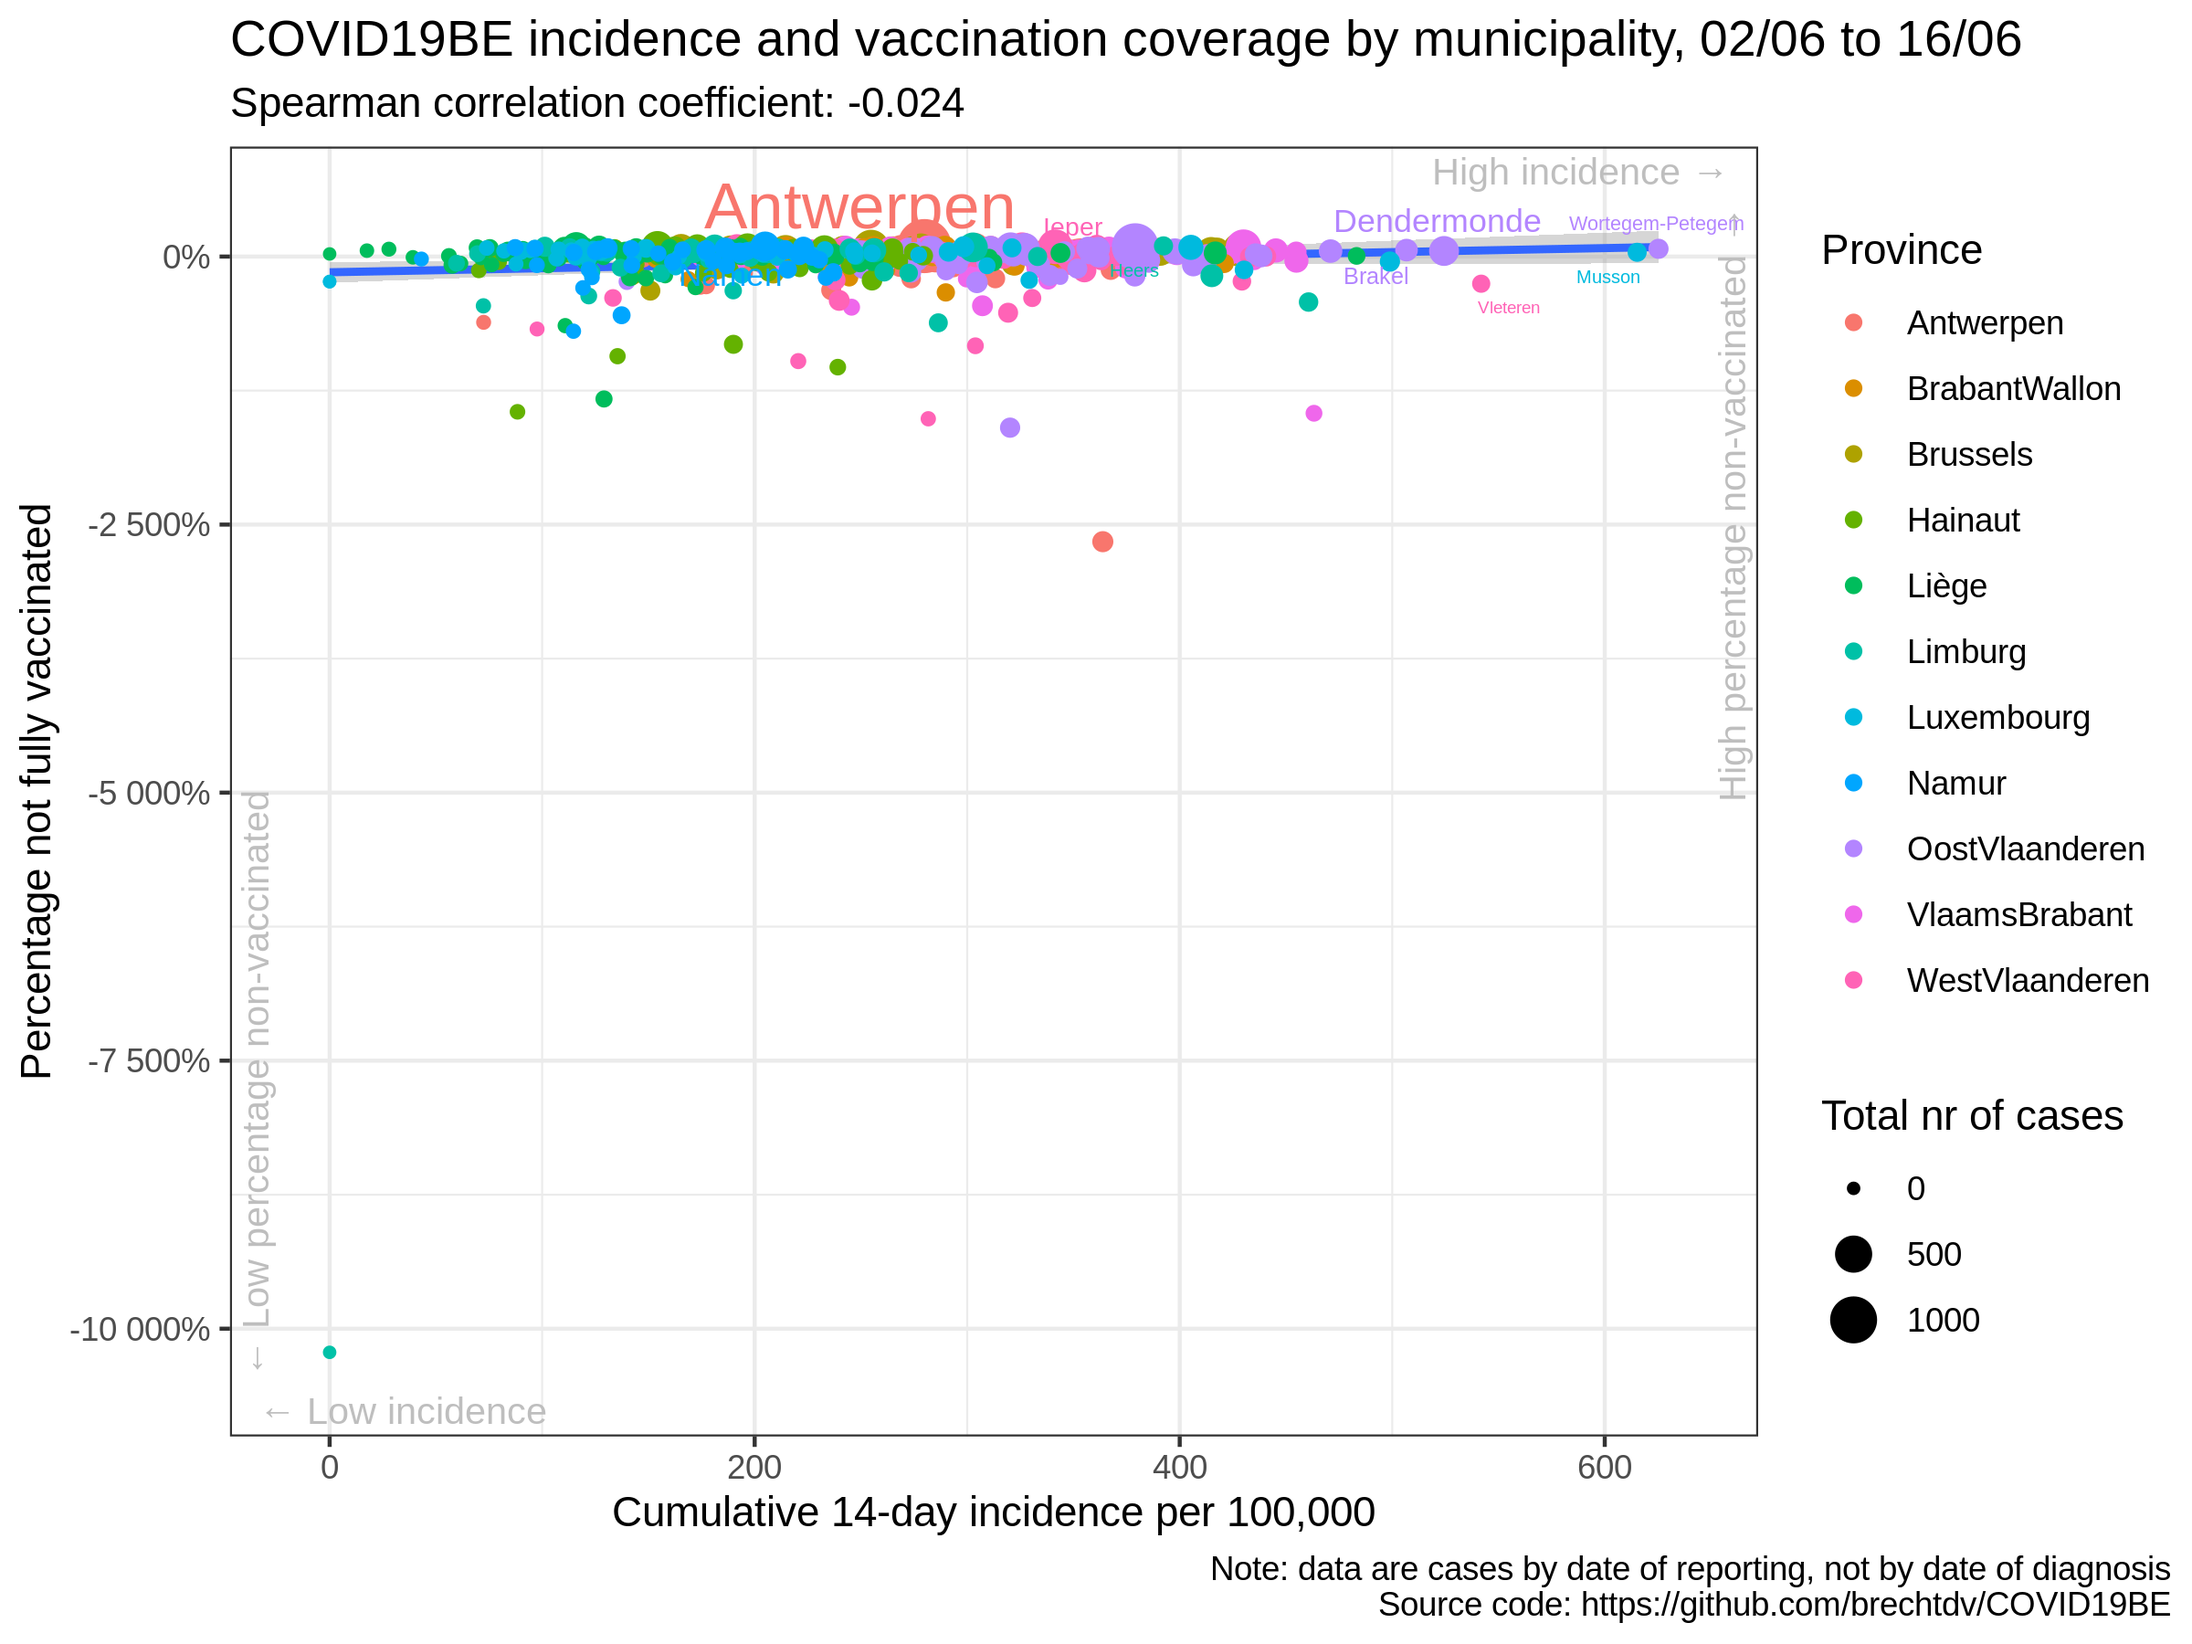
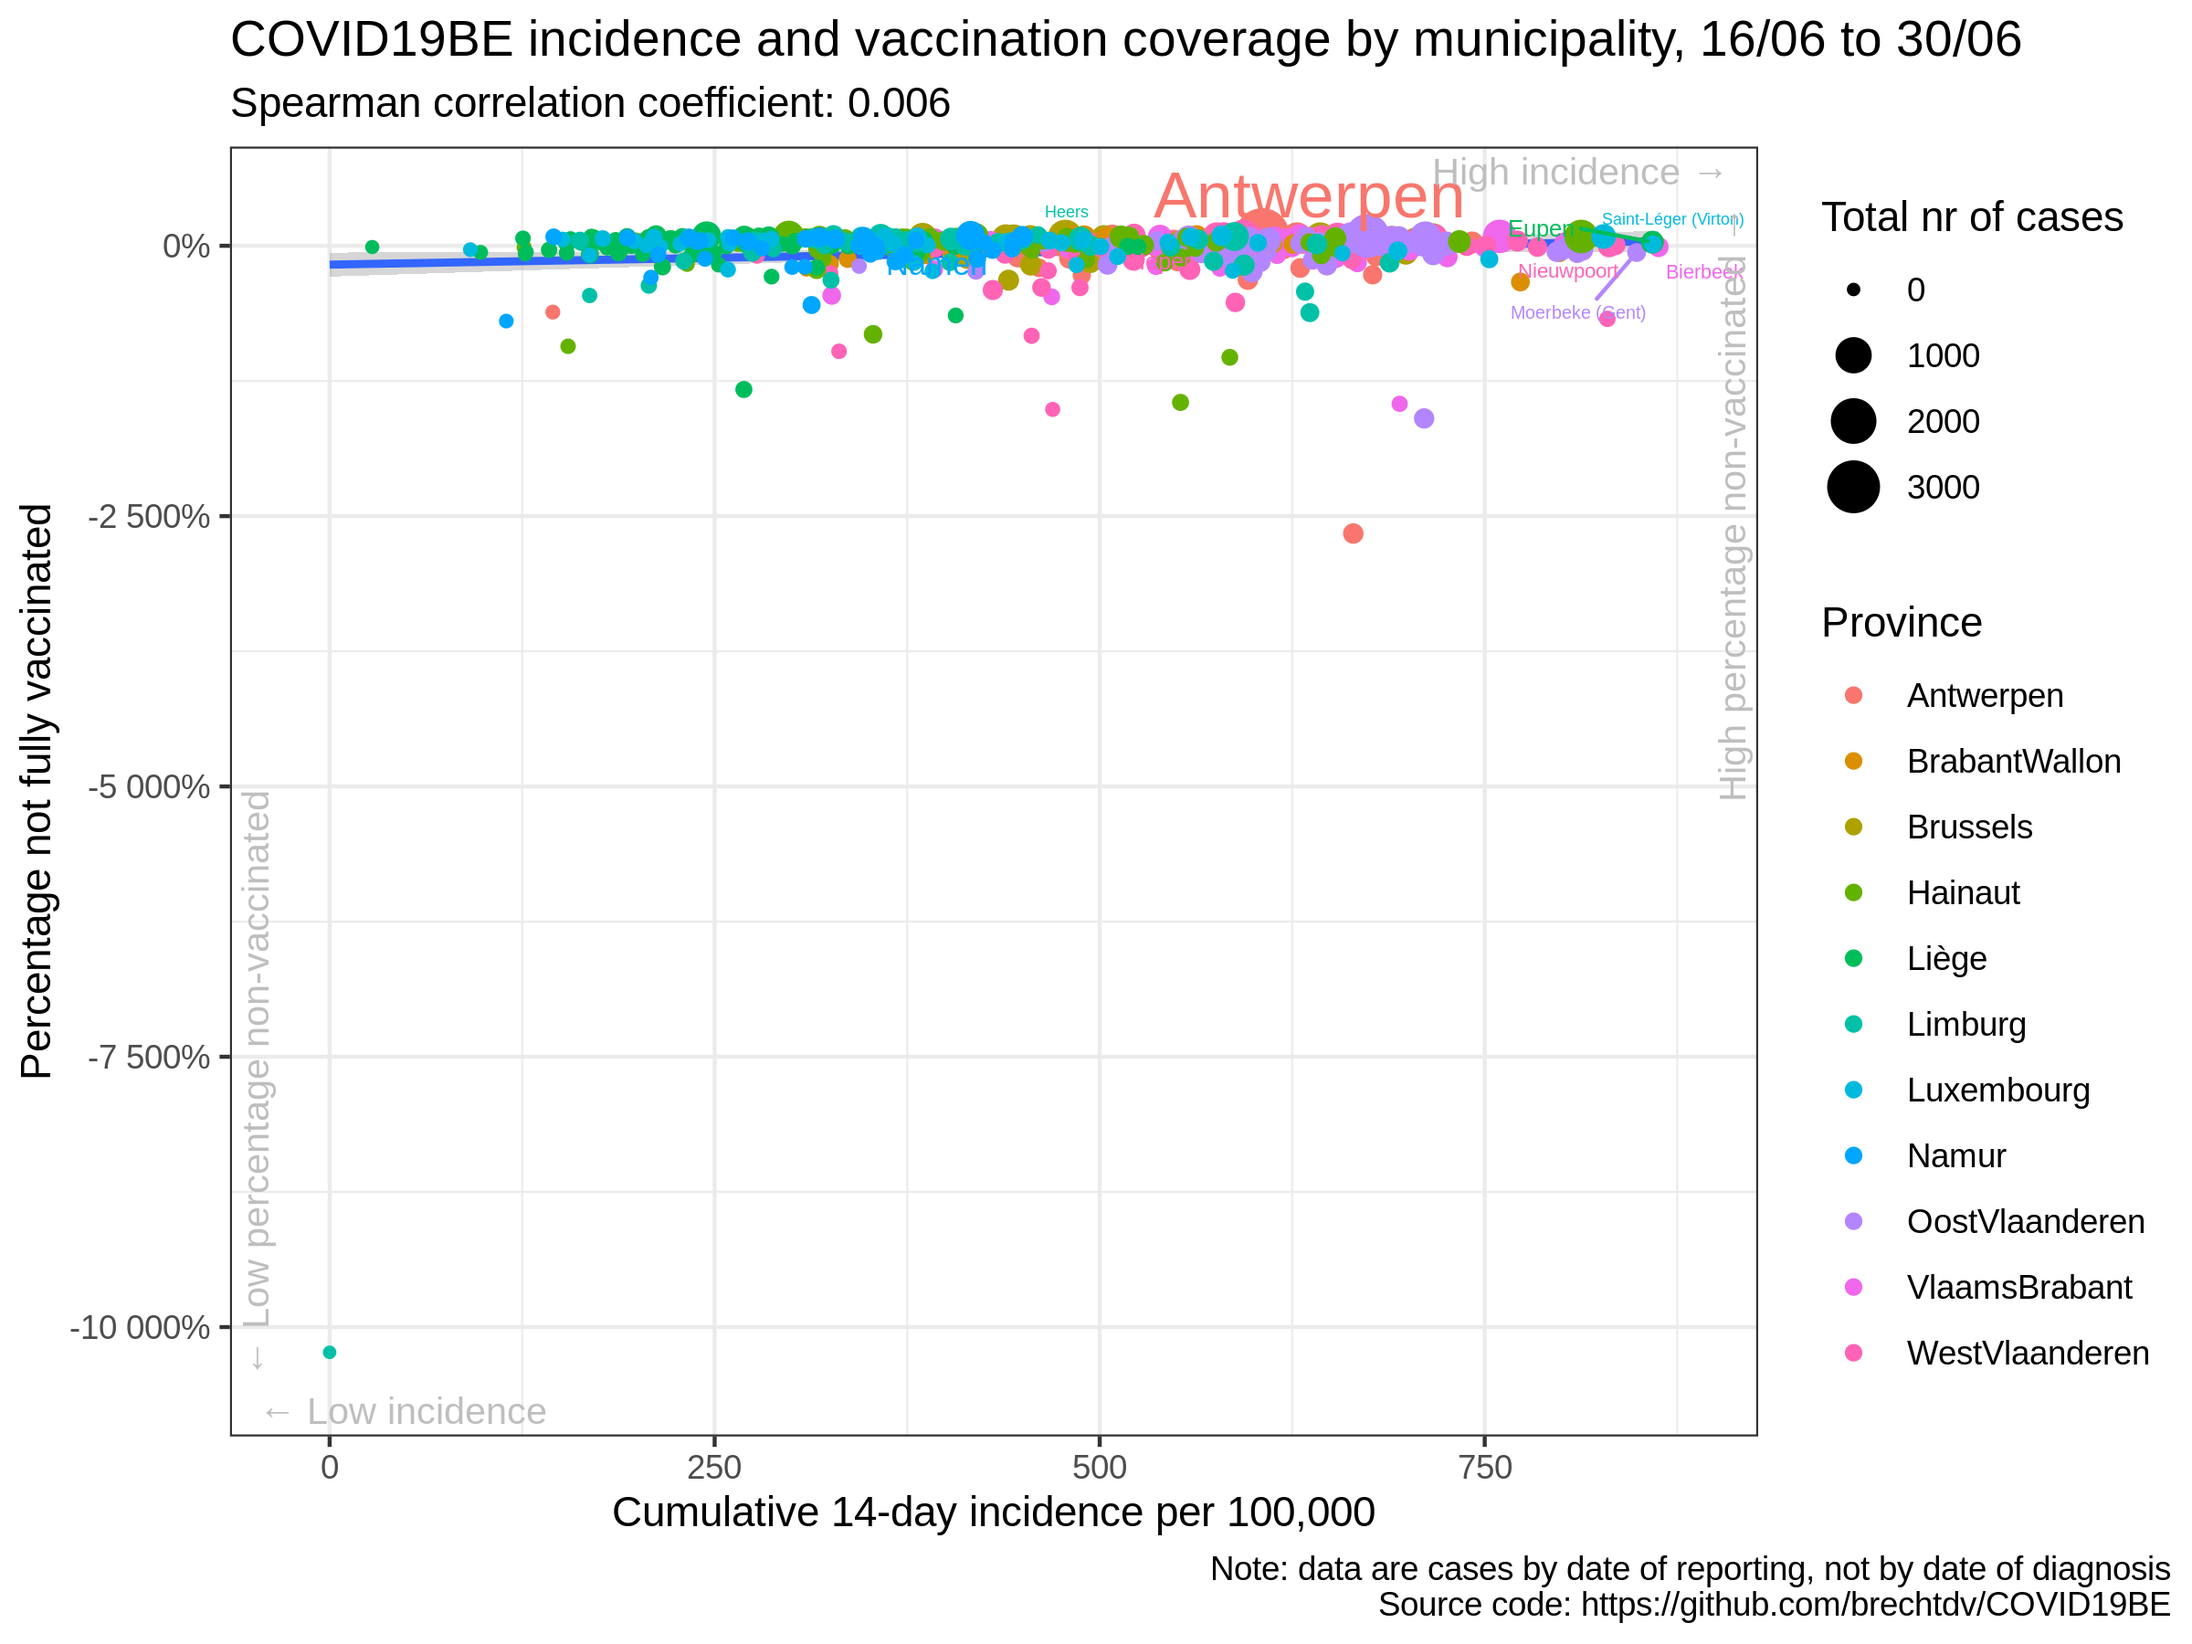
update situation

diff --git a/vaccination/README.md b/vaccination/README.md
@@ -17,35 +17,35 @@
 
 |                | estimate.rho | p.value |
 | :------------- | -----------: | ------: |
-| Antwerpen      |      \-0.027 |   0.825 |
-| BrabantWallon  |        0.074 |   0.713 |
-| Brussels       |        0.165 |   0.498 |
-| Hainaut        |        0.015 |   0.905 |
-| Liège          |      \-0.105 |   0.344 |
-| Limburg        |        0.069 |   0.662 |
-| Luxembourg     |      \-0.029 |   0.851 |
-| Namur          |        0.018 |   0.915 |
-| OostVlaanderen |        0.213 |   0.103 |
-| VlaamsBrabant  |        0.063 |   0.618 |
-| WestVlaanderen |      \-0.023 |   0.854 |
-| Belgium        |      \-0.024 |   0.559 |
+| Antwerpen      |        0.182 |   0.135 |
+| BrabantWallon  |        0.136 |   0.499 |
+| Brussels       |      \-0.016 |   0.951 |
+| Hainaut        |        0.055 |   0.651 |
+| Liège          |        0.031 |   0.778 |
+| Limburg        |        0.047 |   0.767 |
+| Luxembourg     |      \-0.107 |   0.486 |
+| Namur          |        0.041 |   0.809 |
+| OostVlaanderen |        0.073 |   0.576 |
+| VlaamsBrabant  |      \-0.038 |   0.762 |
+| WestVlaanderen |        0.211 |   0.095 |
+| Belgium        |        0.006 |   0.877 |
 
 ### Correlation cumulative incidence vs booster rate
 
 |                | estimate.rho | p.value |
 | :------------- | -----------: | ------: |
-| Antwerpen      |      \-0.018 |   0.883 |
-| BrabantWallon  |        0.089 |   0.660 |
-| Brussels       |        0.137 |   0.575 |
-| Hainaut        |        0.010 |   0.935 |
-| Liège          |      \-0.109 |   0.325 |
-| Limburg        |        0.069 |   0.663 |
-| Luxembourg     |      \-0.048 |   0.757 |
-| Namur          |        0.039 |   0.820 |
-| OostVlaanderen |        0.213 |   0.102 |
-| VlaamsBrabant  |        0.062 |   0.621 |
-| WestVlaanderen |      \-0.020 |   0.877 |
-| Belgium        |      \-0.057 |   0.168 |
+| Antwerpen      |        0.185 |   0.128 |
+| BrabantWallon  |        0.124 |   0.536 |
+| Brussels       |      \-0.033 |   0.894 |
+| Hainaut        |        0.055 |   0.653 |
+| Liège          |        0.032 |   0.772 |
+| Limburg        |        0.052 |   0.743 |
+| Luxembourg     |      \-0.111 |   0.473 |
+| Namur          |        0.050 |   0.769 |
+| OostVlaanderen |        0.079 |   0.545 |
+| VlaamsBrabant  |      \-0.049 |   0.698 |
+| WestVlaanderen |        0.209 |   0.097 |
+| Belgium        |      \-0.025 |   0.542 |
 
 ### Data source
 
